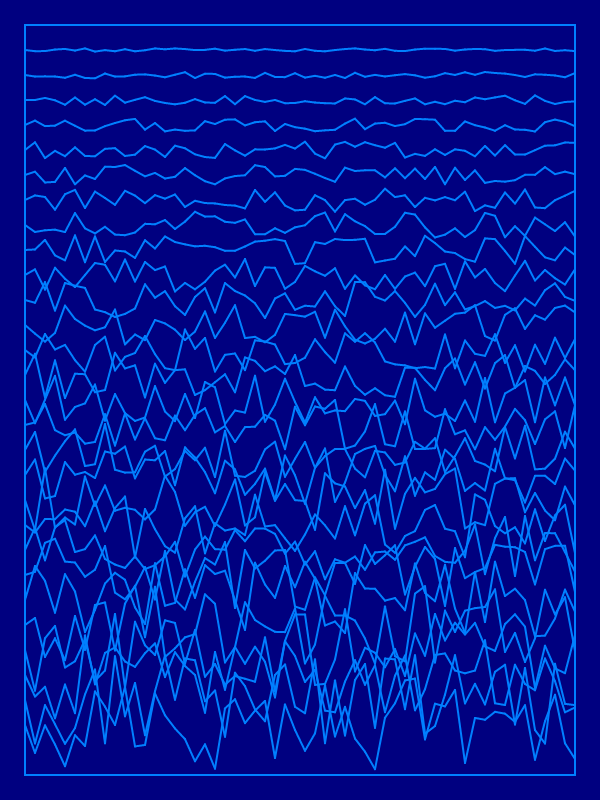
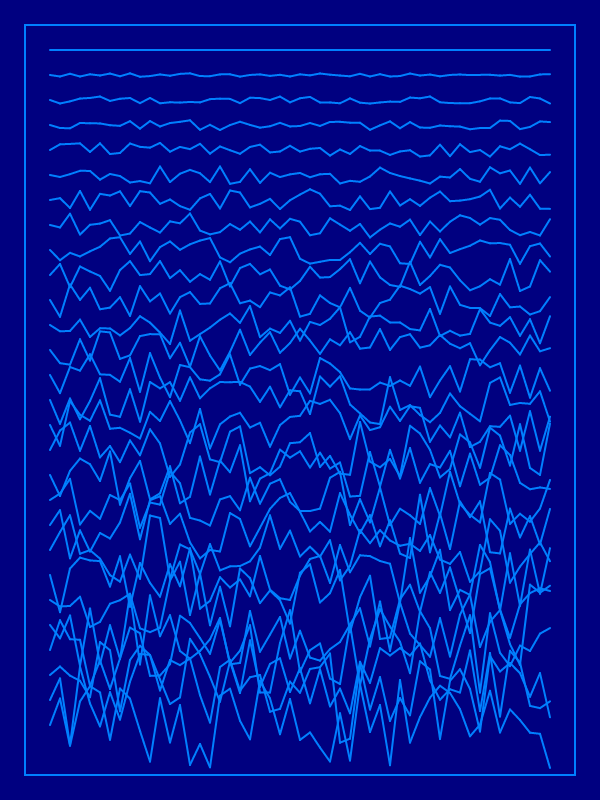
wrong lines

Changed region(s): [[0.03, 0.0625, 0.96, 0.9688]]

diff --git a/examples/p5js/for-loops/_posts/2021-01-22-wrong-lines.md b/examples/p5js/for-loops/_posts/2021-01-22-wrong-lines.md
@@ -32,20 +32,20 @@ function draw() {
   noFill();
   rect(margin, margin, width - margin * 2, height - margin * 2);
 
-  for (let y = margin; y < height - margin * 2; y += 25) {
+  for (let y = margin*2; y < height - margin * 2; y += 25) {
     drawLine(y);
   }
 
 }
 
 function drawLine(lineY) {
-  const range = map(lineY, margin, height - margin, 0, 50);
+  const range = map(lineY, margin * 2, height - margin * 2, 0, 50);
 
-  let prevX = margin;
+  let prevX = margin * 2;
   let prevY = lineY;
   const lineSpacing = 10;
 
-  for (let x = margin + lineSpacing; x <= width - margin; x += lineSpacing) {
+  for (let x = prevX + lineSpacing; x <= width - margin * 2; x += lineSpacing) {
 
     const y = lineY + random(-range, range);
     line(prevX, prevY, x, y);
